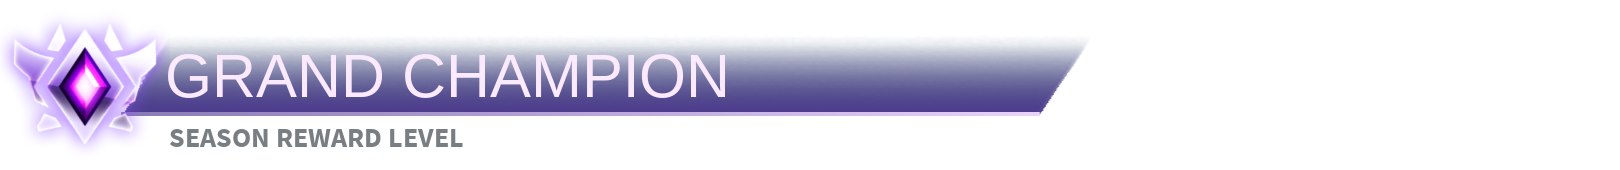
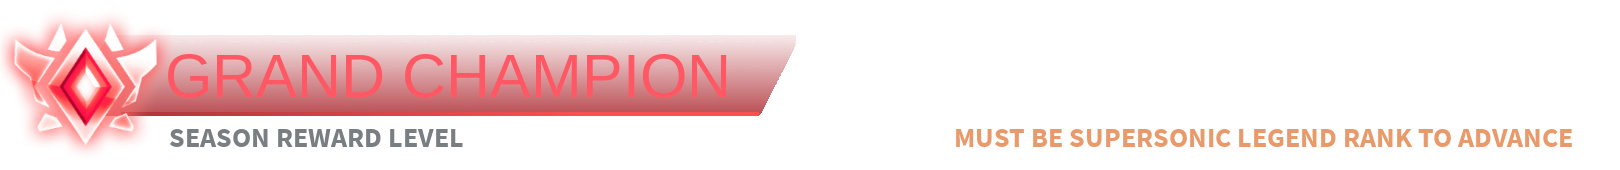
enhance(rlstats): add support for new ranks
- add new rank images
- add new season rewards images
- update the index of season reward level without win bars
- add season rewards color for supersonic legend
- use center point positioning for rank image

Changed region(s): [[0.0, 0.1176, 0.679, 0.8824], [0.5864, 0.7353, 0.9877, 0.8824]]

diff --git a/rlstats/image.py b/rlstats/image.py
@@ -184,7 +184,7 @@ class RLStatsImage(RLStatsImageMixin):
 
     def _draw_season_rewards(self) -> None:
         self._draw_season_reward_lvl()
-        if self.player.season_rewards.level != 7:
+        if self.player.season_rewards.level != 8:
             self._draw_season_reward_bars()
             self._draw_season_reward_wins()
 

diff --git a/rlstats/rlstats.py b/rlstats/rlstats.py
@@ -106,6 +106,7 @@ class RLStats(SettingsMixin, commands.Cog, metaclass=CogAndABCMeta):
         4: "#95d9d7",
         5: "#c1afda",
         6: "#d9caf0",
+        7: "#ffffff",
     }
 
     def __init__(self, bot: Red) -> None:
